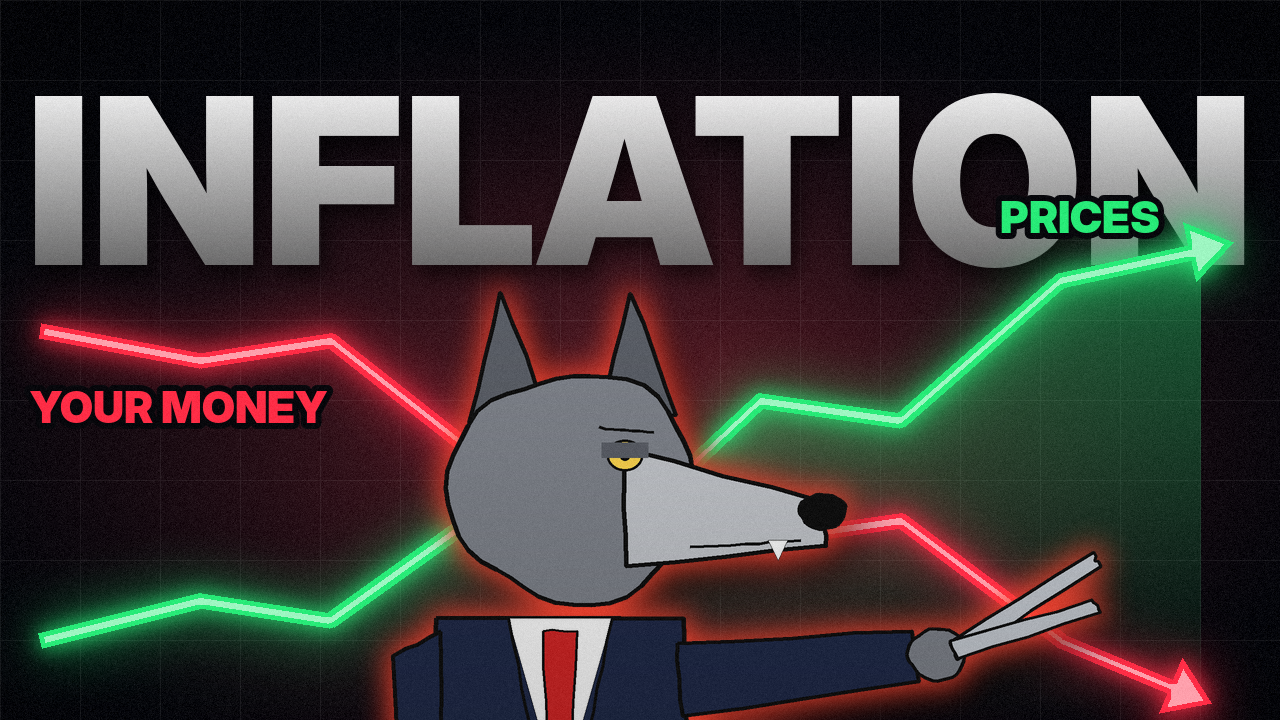
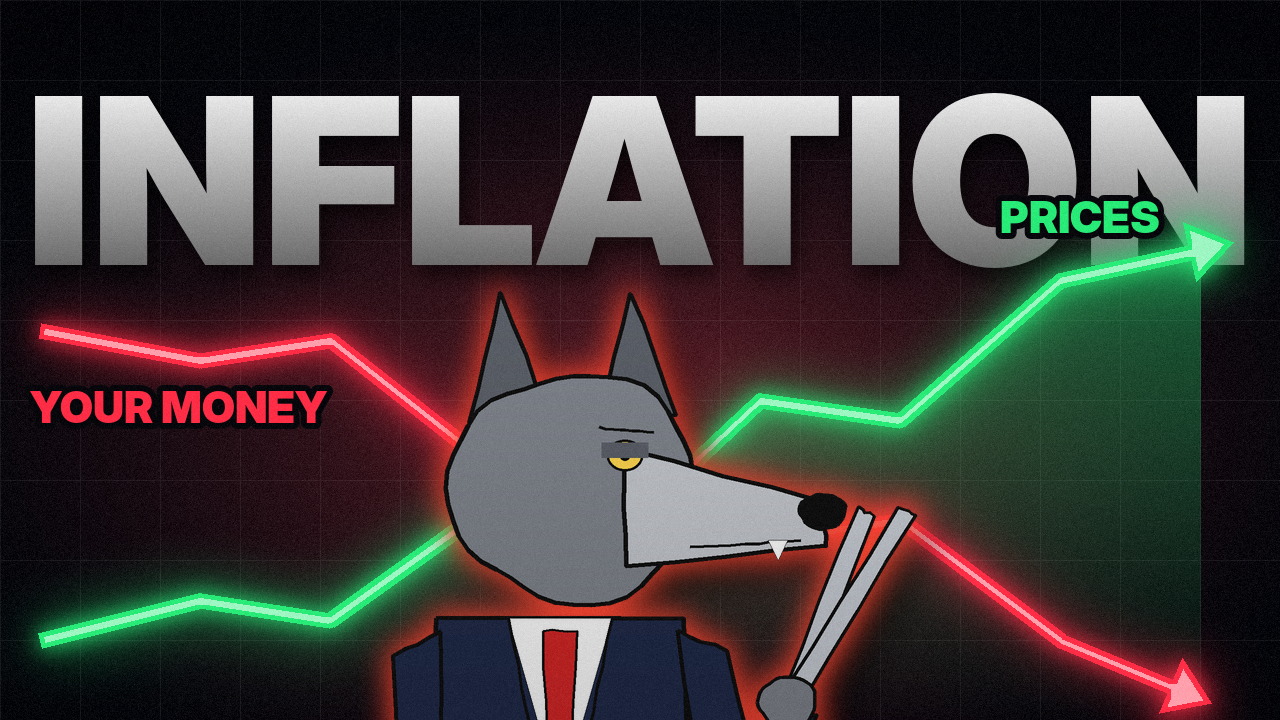
Wolf poses: no straight horizontal arm (shears = bent elbow, present = arm down)
Claude-Session: https://claude.ai/code/session_01UfLUgJczAYJw2VoQ5ySqhd

Changed region(s): [[0.5312, 0.6722, 0.875, 1.0]]

diff --git a/youtube/sheep-standard/sketches/wolf.py b/youtube/sheep-standard/sketches/wolf.py
@@ -116,20 +116,23 @@ def wolf(d, cx, base, s=1.0, pose="stand", seed=7, talk=0.0, blink=False):
     elif pose == "present":
         shape(d, [(cx - 92 * s, jt + 40 * s), (cx - 128 * s, jt + 60 * s), (cx - 120 * s, jt + 230 * s), (cx - 92 * s, jt + 225 * s)], SUIT, 8, seed=19)
         shape(d, wob(cx - 108 * s, jt + 245 * s, 22 * s, 20 * s, seed=23), GREY, 7)
-        shape(d, [(cx + 90 * s, jt + 50 * s), (cx + 290 * s, jt + 100 * s), (cx + 285 * s, jt + 140 * s), (cx + 85 * s, jt + 110 * s)], SUIT, 8, seed=24)
-        shape(d, wob(cx + 310 * s, jt + 118 * s, 30 * s, 18 * s, seed=25), GREY, 7)
+        # рука опущена вниз-вперёд, лапа ладонью вверх («предлагает»), никогда не прямая горизонтальная рука
+        shape(d, [(cx + 88 * s, jt + 50 * s), (cx + 250 * s, jt + 190 * s), (cx + 232 * s, jt + 228 * s), (cx + 78 * s, jt + 110 * s)], SUIT, 8, seed=24)
+        shape(d, wob(cx + 262 * s, jt + 218 * s, 30 * s, 17 * s, seed=25), GREY, 7)
     elif pose == "phone":                 # ЛЕВАЯ рука Волка (справа у зрителя) опущена; ПРАВАЯ (слева у зрителя) держит телефон у правого уха
         shape(d, [(cx + 92 * s, jt + 40 * s), (cx + 128 * s, jt + 60 * s), (cx + 120 * s, jt + 230 * s), (cx + 92 * s, jt + 225 * s)], SUIT, 8, seed=21)
         shape(d, wob(cx + 108 * s, jt + 245 * s, 22 * s, 20 * s, seed=24), GREY, 7)
         shape(d, [(cx - 88 * s, jt + 35 * s), (cx - 128 * s, jt + 55 * s), (cx - 160 * s, jt + 180 * s), (cx - 118 * s, jt + 198 * s)], SUIT, 8, seed=20)
-    elif pose == "shears":
+    elif pose == "shears":                # рука согнута в локте, ножницы подняты у груди («щёлк-щёлк»), как у парикмахера
         shape(d, [(cx - 92 * s, jt + 40 * s), (cx - 128 * s, jt + 60 * s), (cx - 120 * s, jt + 230 * s), (cx - 92 * s, jt + 225 * s)], SUIT, 8, seed=19)
         shape(d, wob(cx - 108 * s, jt + 245 * s, 22 * s, 20 * s, seed=23), GREY, 7)
-        shape(d, [(cx + 90 * s, jt + 50 * s), (cx + 270 * s, jt + 40 * s), (cx + 275 * s, jt + 80 * s), (cx + 95 * s, jt + 105 * s)], SUIT, 8, seed=26)
-        hx2, hy2 = cx + 290 * s, jt + 58 * s
+        el = (cx + 140 * s, jt + 200 * s)                                  # локоть
+        shape(d, [(cx + 90 * s, jt + 40 * s), (cx + 128 * s, jt + 55 * s), (el[0] + 22 * s, el[1]), (el[0] - 22 * s, el[1] + 10 * s)], SUIT, 8, seed=26)
+        hx2, hy2 = cx + 175 * s, jt + 95 * s                               # лапа у груди
+        shape(d, [(el[0] - 20 * s, el[1] + 12 * s), (el[0] + 24 * s, el[1] - 4 * s), (hx2 + 22 * s, hy2 + 10 * s), (hx2 - 20 * s, hy2 + 18 * s)], SUIT, 8, seed=29)
+        for k in (-1, 1):   # ножницы для стрижки — лезвия вверх-вправо, слегка раскрыты
+            shape(d, [(hx2 - 4 * s, hy2 - 6 * s), (hx2 + 70 * s + k * 16 * s, hy2 - 150 * s), (hx2 + 82 * s + k * 16 * s, hy2 - 144 * s), (hx2 + 10 * s, hy2 + 2 * s)], (200, 205, 212), 6, seed=28 + k)
         shape(d, wob(hx2, hy2, 22 * s, 20 * s, seed=27), GREY, 7)
-        for k in (-1, 1):   # ножницы для стрижки
-            shape(d, [(hx2 + 10 * s, hy2 - 10 * s), (hx2 + 120 * s, hy2 - 60 * s + k * 18 * s), (hx2 + 125 * s, hy2 - 50 * s + k * 18 * s), (hx2 + 16 * s, hy2 + 4 * s)], (200, 205, 212), 6, seed=28 + k)
     # голова (в профиль вправо)
     hx, hy = cx + 10 * s, jt - 70 * s
     for ex, rot in ((-1, -0.25), (1, 0.15)):
